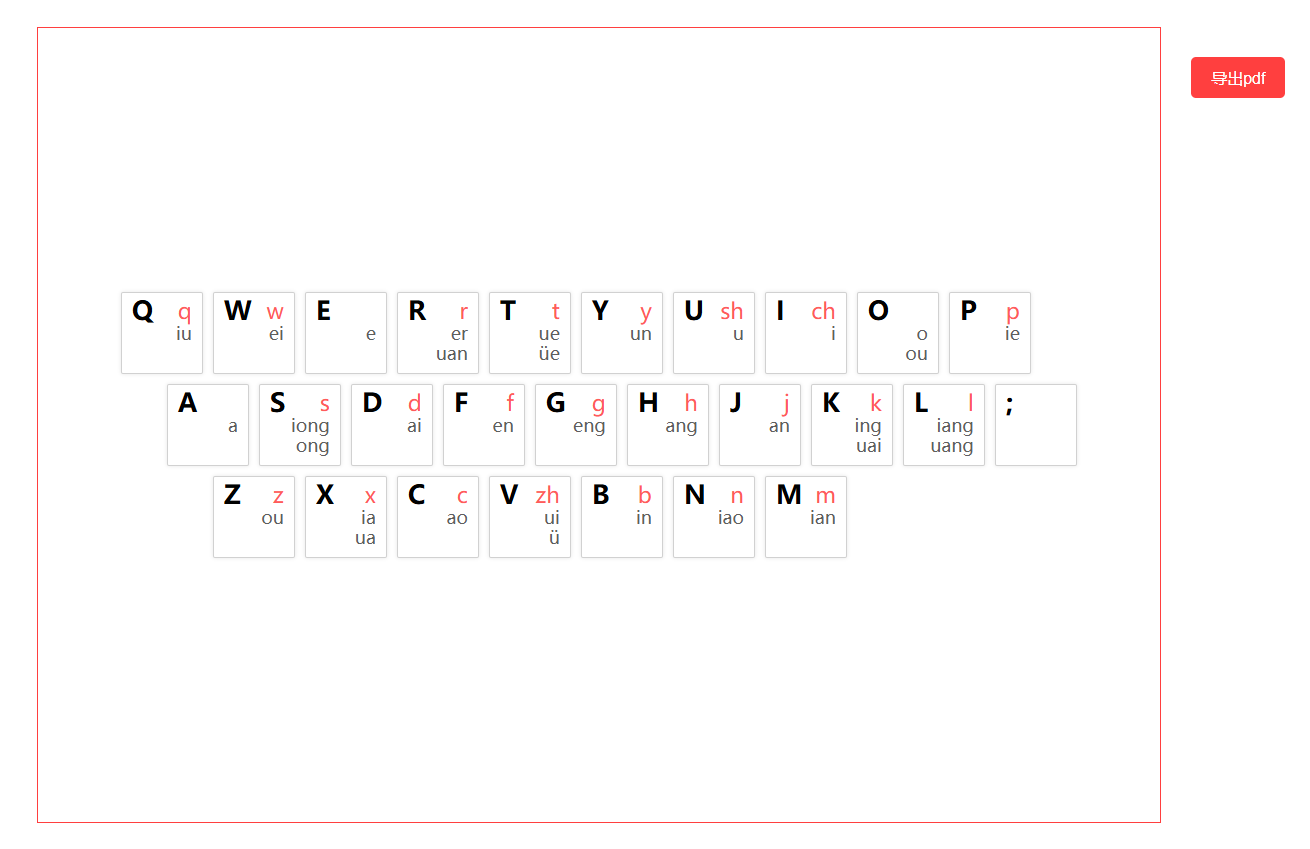
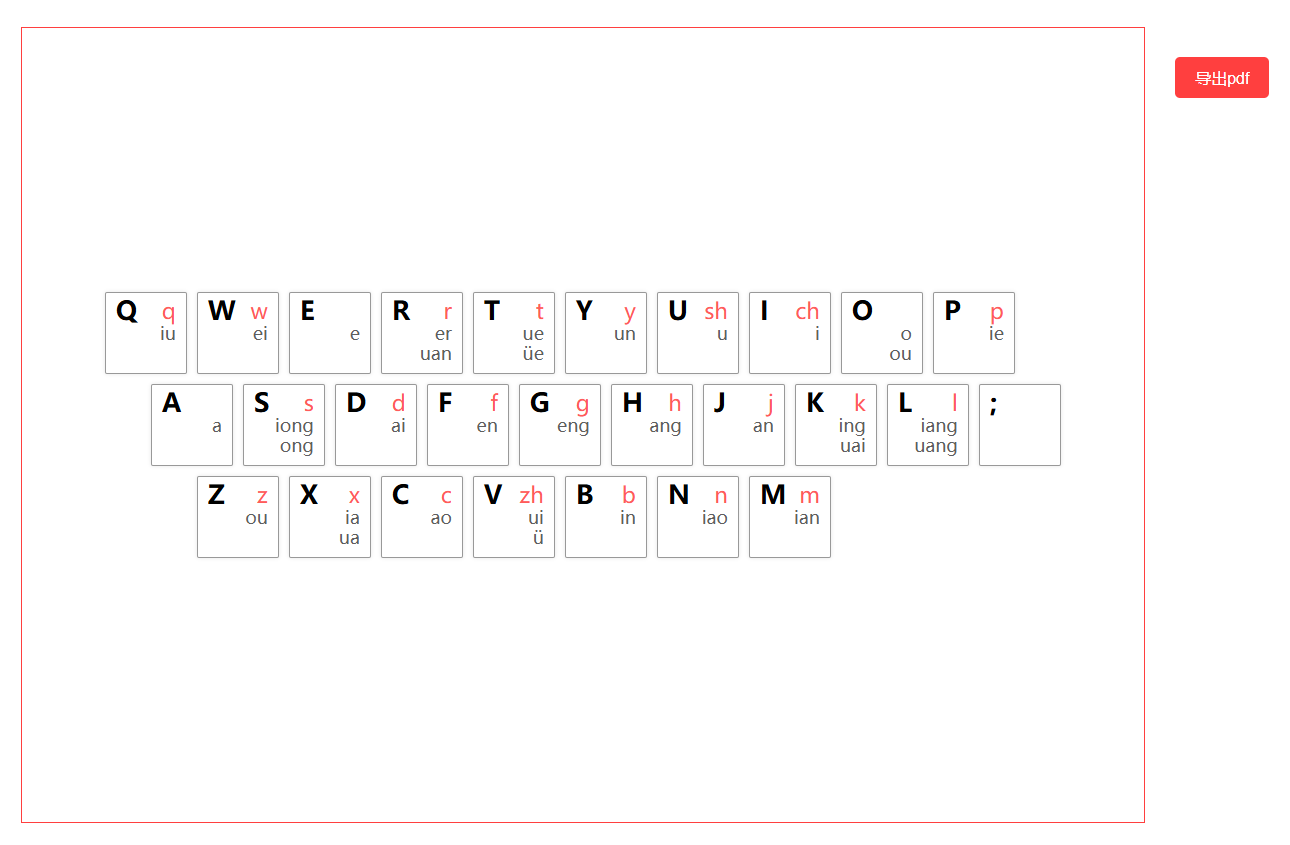
feat: 调整按键样式

diff --git a/src/keyboard-map/key-block.vue b/src/keyboard-map/key-block.vue
@@ -23,7 +23,7 @@ const { char, initials, finals, keyName } = defineProps<KeyboardItem>();
   border-radius: 2px;
   box-sizing: border-box;
   padding: 5px 10px;
-  border: 1px solid#d1d1d1;
+  border: 1px solid#999999;
   grid-column: span 4;
   box-shadow: 0 0 4px rgba(0, 0, 0, 0.1);
 
